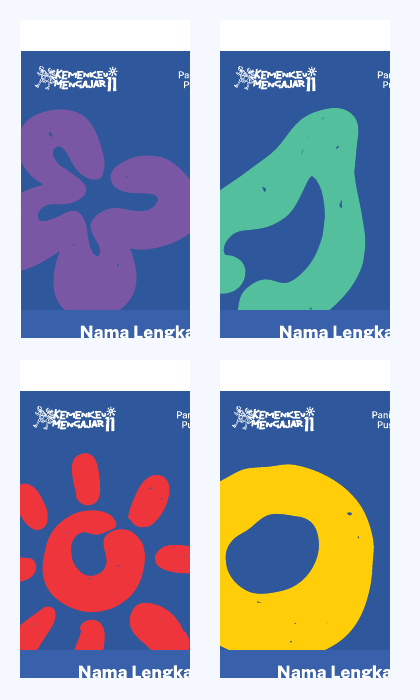
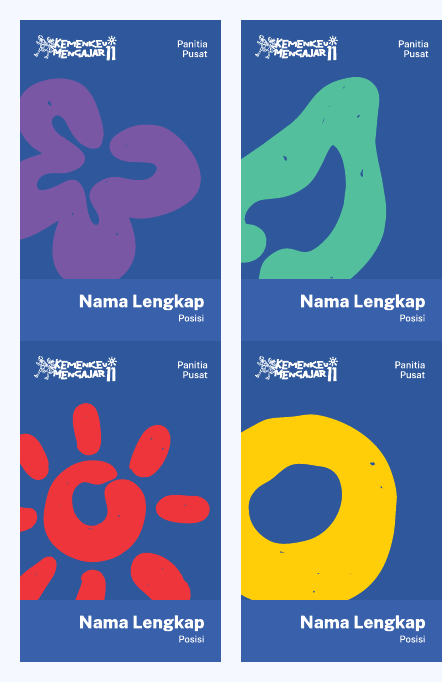
Add files via upload

diff --git a/src/emoney.ts b/src/emoney.ts
@@ -24,10 +24,10 @@ export const EMONEY_BACK_URL = '/emoney/back-template-info.png'
 const CARD_BLUE = '#3967b6'
 
 export const EMONEY_TEMPLATES: EmoneyTemplate[] = [
-  { id: 'em1', label: 'Template 1', crop: { x: 20, y: 20, w: 170, h: 318 } },
-  { id: 'em2', label: 'Template 2', crop: { x: 220, y: 20, w: 170, h: 318 } },
-  { id: 'em3', label: 'Template 3', crop: { x: 20, y: 360, w: 170, h: 318 } },
-  { id: 'em4', label: 'Template 4', crop: { x: 220, y: 360, w: 170, h: 318 } }
+  { id: 'em1', label: 'Template 1', crop: { x: 20, y: 20, w: 201, h: 321 } },
+  { id: 'em2', label: 'Template 2', crop: { x: 241, y: 20, w: 201, h: 321 } },
+  { id: 'em3', label: 'Template 3', crop: { x: 20, y: 341, w: 201, h: 321 } },
+  { id: 'em4', label: 'Template 4', crop: { x: 241, y: 341, w: 201, h: 321 } }
 ]
 
 const imageCache = new Map<string, Promise<HTMLImageElement>>()
@@ -67,7 +67,7 @@ function sanitizeName(name: string) {
   return name.trim().replace(/\s+/g, ' ').slice(0, 28)
 }
 
-export async function drawEmoneyTemplate(canvas: HTMLCanvasElement, templateId: string) {
+export async function drawEmoneyBaseTemplate(canvas: HTMLCanvasElement, templateId: string) {
   const template = EMONEY_TEMPLATES.find(t => t.id === templateId) || EMONEY_TEMPLATES[0]
   const sprite = await loadImage(EMONEY_SPRITE_URL)
   canvas.width = EMONEY_CANVAS.width
@@ -76,10 +76,14 @@ export async function drawEmoneyTemplate(canvas: HTMLCanvasElement, templateId: 
   if (!ctx) throw new Error('Canvas tidak tersedia.')
   ctx.clearRect(0, 0, canvas.width, canvas.height)
   ctx.drawImage(sprite, template.crop.x, template.crop.y, template.crop.w, template.crop.h, 0, 0, canvas.width, canvas.height)
-  // cover the right-side role text and the original placeholder name/position area
+  return ctx
+}
+
+export async function drawEmoneyTemplate(canvas: HTMLCanvasElement, templateId: string) {
+  const ctx = await drawEmoneyBaseTemplate(canvas, templateId)
+  // rapikan area placeholder teks di bagian bawah, tanpa mengubah identitas template utama.
   ctx.fillStyle = CARD_BLUE
-  ctx.fillRect(canvas.width * 0.72, canvas.height * 0.02, canvas.width * 0.25, canvas.height * 0.14)
-  ctx.fillRect(0, canvas.height * 0.82, canvas.width, canvas.height * 0.18)
+  ctx.fillRect(0, canvas.height * 0.80, canvas.width, canvas.height * 0.20)
   return ctx
 }
 

diff --git a/src/StorePage.tsx b/src/StorePage.tsx
@@ -2,7 +2,7 @@ import { useEffect, useMemo, useRef, useState } from 'react'
 import { Check, CreditCard, Minus, Plus, ShoppingCart, Sparkles, X } from 'lucide-react'
 import { catalogApi } from './api'
 import { useCart } from './CartContext'
-import { EMONEY_BACK_URL, EMONEY_TEMPLATES, defaultEmoneyCustomization, drawEmoneyTemplate, renderEmoneyDataUrl, renderEmoneyPreview } from './emoney'
+import { EMONEY_BACK_URL, EMONEY_TEMPLATES, defaultEmoneyCustomization, drawEmoneyBaseTemplate, renderEmoneyDataUrl, renderEmoneyPreview } from './emoney'
 import type { Product } from './types'
 import { rupiah } from './utils'
 
@@ -49,7 +49,7 @@ function TemplateThumb({ templateId, active, onClick }: { templateId: string; ac
   useEffect(() => {
     const canvas = ref.current
     if (!canvas) return
-    drawEmoneyTemplate(canvas, templateId).catch(() => undefined)
+    drawEmoneyBaseTemplate(canvas, templateId).catch(() => undefined)
   }, [templateId])
   const label = EMONEY_TEMPLATES.find(t => t.id === templateId)?.label || templateId
   return <button type="button" className={`template-thumb ${active ? 'active' : ''}`} onClick={onClick}>
